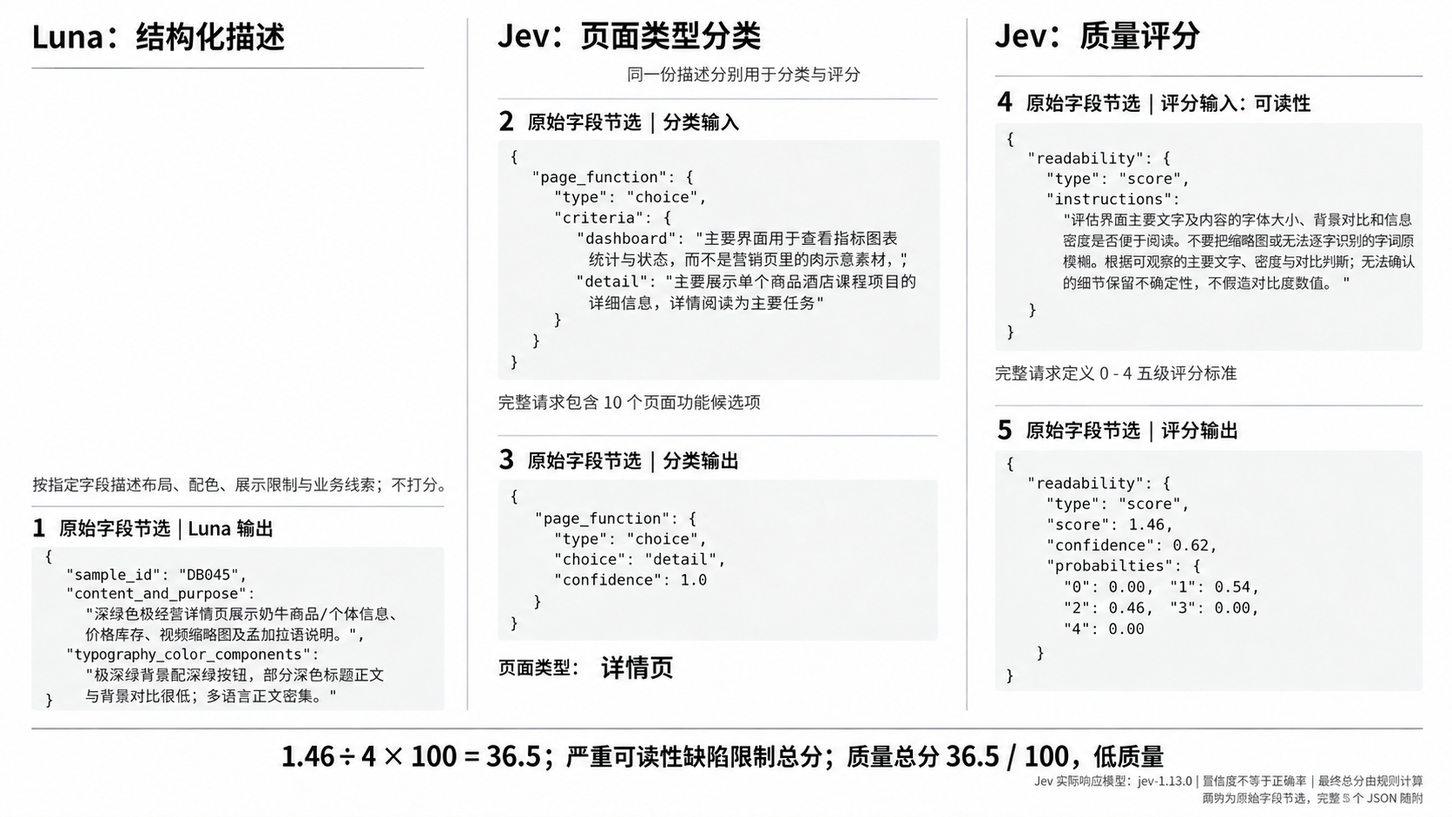
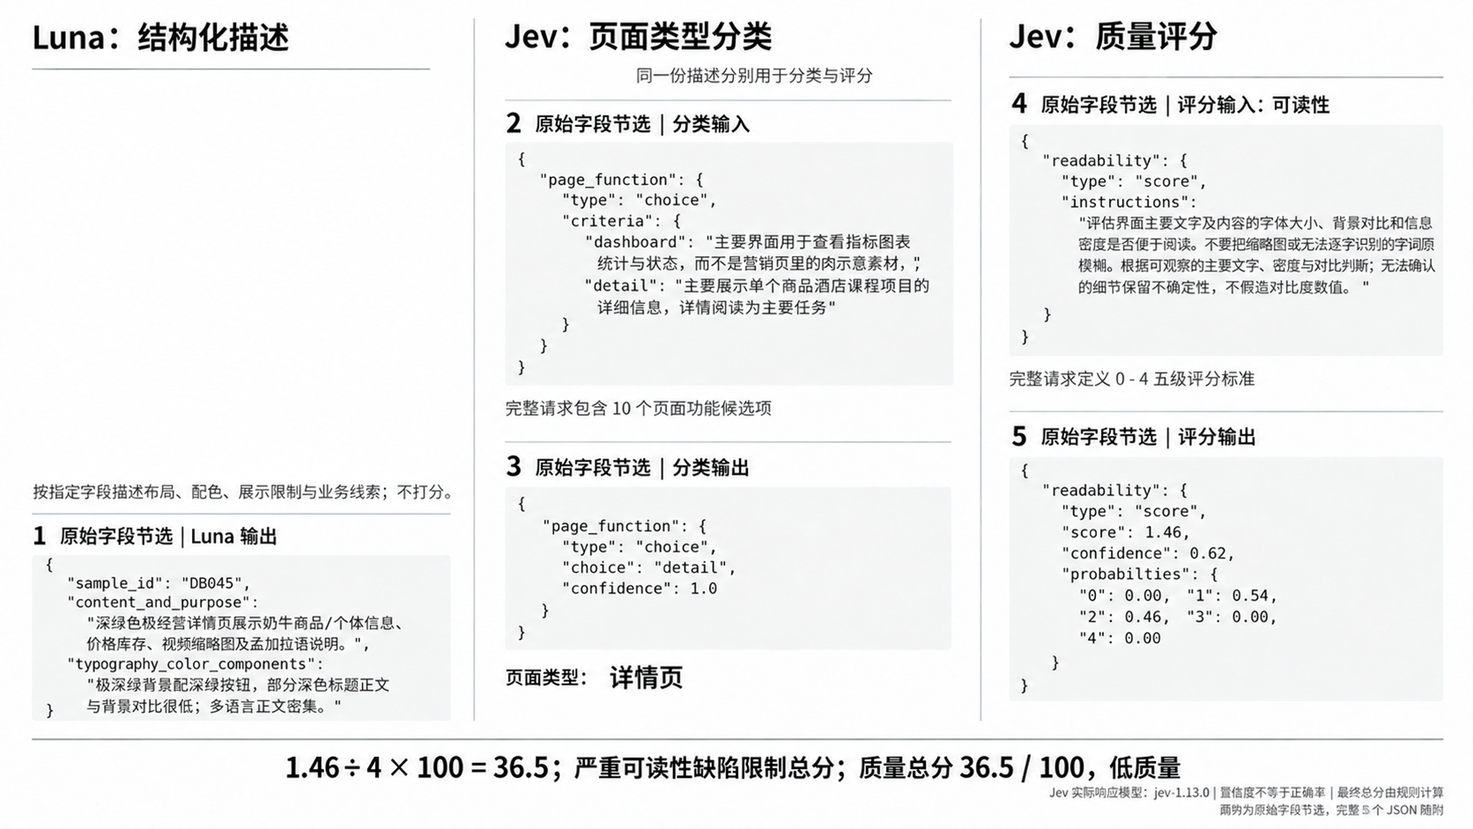
Refine research documentation and add workflow and results figures

diff --git a/README.md b/README.md
@@ -1,62 +1,154 @@
 # UI Quality Curator
 
-**面向前端生成的界面数据筛选与分类原型。** 使用 Luna 提取结构化视觉描述，使用 Jev 完成页面功能、业务领域分类和分项评分，再通过透明规则生成唯一的质量总分。
+**面向前端生成的界面数据质量评估与分类。**
 
-A research prototype for frontend screenshot curation: structured visual captions, page-function/domain classification, and rule-based quality screening with saved evidence.
+将界面截图转化为结构化视觉证据，通过显式定义的分类问题和评分标准，生成可追溯的页面标签、质量分数与筛选依据。
 
-![项目方法与真实 JSON 字段示例](docs/project-overview.png)
+*Evidence-based screenshot curation for frontend generation: structured visual captions, rubric-based evaluation, and reproducible screening decisions.*
 
-## 解决的问题
+[方法设计](#方法设计) · [实验结果](#实验结果) · [案例分析](#案例分析db045) · [离线复现](#离线复现) · [运行与数据说明](docs/reproducibility.md)
 
-网页素材中混有完整界面、孤立组件、作者宣传图和文字难以辨认的页面。搜索来源为 `dashboard` 不代表图片实际就是仪表盘；页面结构完整也不能抵消严重的可读性缺陷。
+## 研究问题
 
-本项目保留每张图片的描述、问题配置、模型响应、分项分数与决策原因，方便追溯和人工检查。目前是 **100 张样本的原型实验**，没有训练新模型，也没有建立人工金标准或验证下游生成效果。
+前端生成模型需要能够反映页面组织和设计质量的视觉数据。然而，网页设计素材的来源标签通常描述搜索主题，难以直接作为训练数据的质量标签：
 
-## 方法
+- **内容粒度不一致。** 完整页面、单个卡片、图表组件和作者宣传图可能出现在同一批素材中。
+- **功能与行业相互混杂。** 金融产品的营销页可以包含仪表盘示意图；页面服务的业务领域与页面承担的用户任务需要分别判断。
+- **完整度与设计质量并不等价。** 页面可以具有完整结构，同时存在低对比文字、混乱层级等明显缺陷。
 
-1. **Luna 视觉描述**：逐图查看，按内容、布局、层级、字体配色、展示限制、不确定项及分类证据等字段输出 JSON。本实验在交互式 Codex 会话中完成；仓库保存实际描述和复核记录，不提供独立可调用的 Luna API 服务。
-2. **Jev 分类与评分**：`choice` 选择页面功能和业务领域；`score` 按预设的 0–4 级标准输出五项设计评分。第二次请求评估页面结构类别与完整度。真实响应包含模型名、置信度及概率分布。
-3. **程序计算质量总分**：分项乘以 25 转成百分制，应用以下规则，输出三档标签并保留待复核原因。小数位与置信度都不等于经过校准的正确率。
+本项目研究如何把这些判断转化为有明确输入、评价标准和决策记录的筛选流程。当前完成了 **Landing-page 与 Dashboard 两组、共 100 张固定随机样本的原型实验**。
 
-### 质量规则
+## 方法设计
 
-五项加权分：布局与间距 25%、信息层级 20%、可读性 15%、视觉一致性 20%、数据可学习性 20%。页面结构完整度另外限制总分。
+流程将视觉观察、模型判断和最终筛选规则分别记录，便于定位一次筛选结果的来源。
+
+![方法流程：Luna 结构化描述，以及 Jev 分类和评分的五个真实 JSON 字段示例](docs/project-overview.png)
+
+*图 1｜以真实样本 DB045 展示 Luna 输出、Jev 分类输入与输出、Jev 评分输入与输出。图中为原始字段节选，完整字段记录见 [docs/db045](docs/db045/)。*
+
+### 1. 结构化视觉证据
+
+Luna 逐图查看素材，按照固定字段描述画面内容。描述阶段记录可见事实和不确定项，质量等级由后续流程产生。
+
+| 字段 | 记录内容 |
+|---|---|
+| `content_and_purpose` | 主体内容与用途线索 |
+| `layout_components` | 页面区域、组件及其排列关系 |
+| `hierarchy` | 内容主次与阅读顺序 |
+| `typography_color_components` | 字体、配色与组件样式 |
+| `presentation_limits` | 裁切、透视、遮挡及可辨认范围 |
+| `uncertainties` | 无法确认的信息 |
+| `function_evidence` / `domain_evidence` | 页面功能与业务领域的视觉证据 |
+
+`sample_id` 将描述与样本清单、原始图片哈希及模型响应对应起来。描述不使用采集标题或来源类别替代画面判断。
+
+### 2. 页面分类与质量评分
+
+Jev 接收结构化描述及问题配置，分别完成两类任务：
+
+| 任务 | 输入约束 | 输出 |
+|---|---|---|
+| **分类 `choice`** | 候选类别及每类的定义 | 类别、置信度、候选概率分布 |
+| **评分 `score`** | 评价维度及有序的 0–4 级标准 | 分项分数、置信度、等级概率分布 |
+
+分类使用两条独立轴：**页面功能**，如营销落地页、数据仪表盘、业务管理页、详情页；**业务领域**，如金融、教育、旅游、零售。页面来源仍保留为抽样信息。
+
+评分覆盖六个维度：
+
+| 维度 | 评价重点 | 在总分中的作用 |
+|---|---|---|
+| 布局与间距 | 对齐、分组、留白与视觉平衡 | 加权项，25% |
+| 信息层级 | 内容主次与阅读顺序 | 加权项，20% |
+| 可读性 | 主要文字的字号、对比与信息密度 | 加权项，15% |
+| 视觉一致性 | 字体、配色及组件语言的协调程度 | 加权项，20% |
+| 数据可学习性 | 从截图学习布局、组件及主要细节的充分程度 | 加权项，20% |
+| 页面结构完整度 | 完整页面、主视口、局部区块之间的结构差异 | 限制最终总分 |
+
+前五项与页面分类在第一阶段请求中评估；结构类别和完整度在第二阶段请求中评估。模型原始评分按 `score / 4 × 100` 转换为百分制，概率与置信度保留用于检查。
+
+### 3. 约束下的质量决策
+
+仅使用加权平均，可能使严重缺陷被其他高分项抵消。本项目保留五项加权结果作为中间量，再施加结构与缺陷限制，向使用者展示唯一的 **质量总分**：
 
 ```text
 质量总分 = min(五项加权分, 页面结构完整度, 结构上限, 严重设计缺陷上限)
-
-结构上限：孤立组件 25；作者宣传或非界面 0；其他 100
-严重设计缺陷：布局、层级、可读性、一致性任一 <50 时，总分不能高于该项分数
-
-高质量：总分 >=65
-中质量：50 <= 总分 <65
-低质量：总分 <50
 ```
 
-按未舍入分数分档，页面显示一位小数。完整规则见每个实验的 `rule_v5.json`。规则属于本次研究的启发式定义，尚未经人工校准。
+- **结构上限：**孤立组件最高 25 分；作者宣传或非界面素材为 0 分；其他结构上限为 100 分。
+- **严重设计缺陷上限：**布局、层级、可读性、一致性中任一项低于 50 时，总分不能高于该项分数；未触发时不额外限制。
+- **质量分档：**高质量 ≥65；中质量 ≥50 且 <65；低质量 <50。分档使用未舍入分数。
 
-## 已完成的实验
+人工复核提示集中于分数靠近 50/65 分界线，以及可能影响保留决定的结构歧义。功能或行业的低置信度继续保留在详情中，不单独触发复核提示。
 
-从两类各 10,000 张候选素材中分别固定随机抽取 50 张，两个样本集均包含 50 个不同作品。随机种子、抽样方法与原始图片哈希见各自的 `experiment.json` 和 `samples.csv`。
+完整参数与实现见 [评分规则](experiments/dashboard-random-50/rule_v5.json)、[总分计算](experiments/dashboard-random-50/run_structure_v5.py) 和 [复核策略](experiments/dashboard-random-50/review_policy_v5.py)。这些阈值是当前实验的启发式定义，后续需要人工标注校准。
 
-| 来源样本集 | 高质量 | 中质量 | 低质量 | 平均总分 |
-|---|---:|---:|---:|---:|
-| Landing-page，50 张 | 20 | 13 | 17 | 54.4 |
-| Dashboard，50 张 | 27 | 10 | 13 | 56.0 |
+## 实验结果
 
-这些数字是当前规则下的筛选分布，**不是准确率**。Dashboard 来源中实际分类为仪表盘的有 29 张、业务管理页 11 张、非界面 5 张，其他功能 5 张。
+从 Landing-page 和 Dashboard 两类各 10,000 张候选素材中分别随机抽取 50 张，每组均对应 50 个不同作品。仓库保留随机种子、抽样方法、来源作品链接和图片 SHA-256，以便追溯样本。
 
-### 真实案例 DB045
+两组实验使用相同的最终评分规则：
 
-Luna 描述指出深绿背景上的暗色文字对比不足。Jev 返回可读性 `1.46/4`，换算为 `36.5/100`；视觉一致性为 `44.5`。原五项加权分为 `55.6375`，加入严重缺陷限制后，质量总分为 **36.5，低质量**。
+| 样本来源 | 样本量 | 高质量 | 中质量 | 低质量 | 平均总分 |
+|---|---:|---:|---:|---:|---:|
+| Landing-page | 50 | 20 | 13 | 17 | 54.4 |
+| Dashboard | 50 | 27 | 10 | 13 | 56.0 |
 
-分类结果为 `detail`（详情页）和 `other`（其他领域）。没有将“畜牧交易”的描述线索冒充成模型已输出的专门行业类别。
+**表中数字表示当前规则下的筛选分布。** 当前尚未建立人工金标准，因此不将该分布解释为分类准确率、质量识别准确率或下游性能提升。
 
-[五个实际 JSON 字段记录](docs/db045/) 包括 Luna 输出、Jev 分类输入/输出和可读性评分输入/输出。它们是原记录的字段提取；同一次实际请求还包含其他问题。页面结构完整度来自另一次请求。保存的 `response` 是解析后的 API 响应，不是 HTTP 抓包。
+来源与实际内容的差异也体现在分类结果中：Dashboard 来源的 50 张素材里，Jev 判断 29 张为数据仪表盘、11 张为业务管理页、5 张为非界面素材，其余 5 张属于其他功能。
 
-## 快速开始：离线复现，无需 API 密钥
+### 结果检查界面
 
-需要 Python 3.10+。核心脚本仅使用标准库。
+![Landing-page 实验的本地结果检查界面：质量分档、功能与领域筛选、六项评分和复核提示](docs/results-preview.png)
+
+*图 2｜Landing-page 样本的本地检查界面。支持按质量、页面功能及业务领域筛选，按总分或分项排序，展开视觉依据与置信度，并下载当前筛选结果。截图中的原图预览来自本地素材，公开仓库的报告在缺少原图时显示来源作品链接。*
+
+| 实验记录 | 描述 | 问题配置 | 模型响应 | 导出结果 |
+|---|---|---|---|---|
+| Landing-page | [Caption](experiments/landing-page-random-50/captions_structured_v5.json) | [分类与设计](experiments/landing-page-random-50/questions_v4.json) / [结构](experiments/landing-page-random-50/questions_v5.json) | [第一阶段](experiments/landing-page-random-50/jev_results_v4.json) / [最终记录](experiments/landing-page-random-50/jev_results_v5.json) | [CSV](experiments/landing-page-random-50/classification_scores_v5.csv) |
+| Dashboard | [Caption](experiments/dashboard-random-50/captions_structured_v5.json) | [分类与设计](experiments/dashboard-random-50/questions_v4.json) / [结构](experiments/dashboard-random-50/questions_v5.json) | [第一阶段](experiments/dashboard-random-50/jev_results_v4.json) / [最终记录](experiments/dashboard-random-50/jev_results_v5.json) | [CSV](experiments/dashboard-random-50/classification_scores_v5.csv) |
+
+## 案例分析：DB045
+
+DB045 是一张结构完整的畜牧商品详情页。Luna 的实际描述记录了一个重要问题：
+
+> 极深绿背景配亮绿按钮，部分深色标题正文与背景对比很低；多语言正文密集。
+
+Jev 根据预设的可读性等级标准，返回如下字段：
+
+```json
+{
+  "type": "score",
+  "score": 1.46,
+  "confidence": 0.62,
+  "probabilities": {
+    "0": 0.00,
+    "1": 0.54,
+    "2": 0.46,
+    "3": 0.00,
+    "4": 0.00
+  }
+}
+```
+
+该分数对应 `1 × 0.54 + 2 × 0.46 = 1.46`，转换后可读性为 **36.5/100**。完整输入问题与响应字段见 [真实案例记录](docs/db045/)。
+
+| 判断依据 | 实际结果 |
+|---|---:|
+| 页面结构完整度 | 89.25 |
+| 数据可学习性 | 80.00 |
+| 可读性 | 36.50 |
+| 视觉一致性 | 44.50 |
+| 仅五项加权时的中间结果 | 55.6375 |
+| 施加严重缺陷限制后的质量总分 | **36.50，低质量** |
+
+这个失败样本暴露了平均分对严重缺陷的补偿效应，并促成了当前的缺陷限制规则。同样的规则随后应用到两批全部 100 张样本。
+
+页面功能的实际输出为 `detail`（详情页），业务领域输出为 `other`（其他领域）。描述中的畜牧交易线索进一步反映出当前行业候选集合的覆盖边界。
+
+## 离线复现
+
+需要 **Python 3.10+**，核心脚本仅依赖标准库。使用仓库中的已保存响应，即可重新计算全部分数、标签与复核提示，无需 API 密钥。
 
 ```bash
 git clone https://github.com/starry913/ui-quality-curator.git
@@ -65,50 +157,25 @@ python tools/replay.py
 python -m unittest discover -s tests -v
 ```
 
-`replay.py` 读取已保存的真实模型响应，重算 100 张样本的分数和标签，并生成两份静态报告。**不会调用模型或读取 API 密钥。**
+运行后打开根目录的 `index.html`，或直接打开两组实验目录下的 `review.html`。离线重放不会调用模型，也不会读取 API 密钥。
 
-- 打开根目录生成的 `index.html` 进入实验导航。
-- 也可直接打开 `experiments/landing-page-random-50/review.html` 或 `experiments/dashboard-random-50/review.html`。
-- 报告支持按三档质量、页面功能、业务领域筛选、按分数排序和下载当前 CSV。
-- 原图未随代码发布；缺少预览时显示公开来源作品链接。将自己的预览保存为 `previews/<sample_id>.jpg` 后重新生成报告即可显示。
+验证覆盖 100 张样本的分数换算与总分计算、50/65 分档边界、严重缺陷限制，以及缺少原图时报告与导出的完整性。GitHub Actions 在提交时执行相同检查，并验证报告脚本语法。
 
-## 使用自己的描述进行新推理
+## 可复现记录与运行边界
 
-这是保留原始实验脚本的研究原型，两个实验目录目前都严格校验 **50 个样本编号**。请先复制一个实验目录作为新实验，准备对应的 `samples.csv`、`experiment.json` 和 `captions_structured_v4.json`；确保编号匹配，并移除复制来的旧响应文件，以免断点跳过旧记录。请勿覆盖已提交的基准记录。
+仓库包含代码、结构化描述、问题配置、解析后的实际 API 响应、导出结果和采样元数据。Luna 描述在交互式 Codex 会话中生成，实际查看范围及额外原图复核记录见各组的 `caption_provenance_v4.json`；当前仓库不提供独立的 Luna 推理服务。
 
-1. 按 `captions_structured_v5.json` 的字段组织自己的视觉描述。描述只能记录可见证据，不能从来源类别猜测页面类型。
-2. 在终端设置 `TYPESAFE_API_KEY`，或将 `.env.example` 复制为本地 `.env` 并填写自己的密钥。`.env` 已忽略。
-3. 在新实验目录运行：
+Jev 历史响应模型为 `jev-1.13.0`，运行器请求使用 `jev-latest`。**离线重放用于验证保存记录与决策规则；重新调用模型时，输出可能随模型版本或推理过程变化。**
 
-```bash
-python run_classification_v4.py
-python run_structure_v5.py
-python build_report_v5.py
-```
+新数据接入、API 配置、检查点行为与脚本版本对应关系，见 [运行与复现说明](docs/reproducibility.md)。
 
-前两个步骤会调用 `https://api.typesafe.ai/v1/systemone`，可能产生 API 费用；报告生成步骤不调用 API。请求使用 `jev-latest`，实际响应模型记录在结果中，历史样本为 `jev-1.13.0`。模型版本变化可能影响复现。运行器保存检查点，并在输入变化时拒绝混用旧结果。
+## 局限与后续工作
 
-新实验初始化时，至少清除 `jev_results_v4.json`、`jev_results_v5.json` 及由旧记录生成的导出和报告；保留或重新生成问题配置。结构阶段还保留了 LP006、LP030 的历史人工观察补充，新实验请使用不同编号，或移除这两条基准专用补充。
+- **质量标准需要校准。** 当前权重、阈值与分数上限来自原型迭代，下一步需建立人工标注集，评估分类与评分的一致性。
+- **文本描述可能损失图像细节。** Caption 中的遗漏或错误会传递到后续判断，需要结合原图检查和更系统的描述一致性验证。
+- **候选类别影响分类覆盖。** 当前行业集合不包含所有领域，需要在保留未知和其他类别的同时，评估如何扩展分类体系。
+- **下游收益仍待验证。** 计划比较不同筛选规则、描述方式与数据组成，并评估筛选前后数据对前端生成质量的影响。
 
-## 目录
+## 数据说明
 
-```text
-experiments/
-  landing-page-random-50/   # 50 张描述、响应、评分规则和报告脚本
-  dashboard-random-50/      # 另一组 50 张，使用相同最终评分规则
-docs/
-  project-overview.png      # 5 个 JSON 字段节选的方法图，预留插图位置
-  db045/                    # 一个真实样本的输入问题与原始输出字段
-tools/replay.py              # 离线重算并生成报告导航
-tests/test_replay.py         # 分数、分档、缺陷上限、HTML 和来源追溯检查
-```
-
-`v3`、`v4`、`v5` 文件名保留了迭代来源：`run_scores_v3.py` 提供五项评分标准；`run_classification_v4.py` 负责分类与第一阶段评分；`run_structure_v5.py` 和 `build_report_v5.py` 提供当前总分规则与报告。`build_scores_report_v3.py` 在当前流程中仅作为静态样式模板读取。
-
-## 数据与局限
-
-仓库发布代码、描述与评分证据，不发布原始采集图库、API 密钥、运行数据库、用户目录路径或无关海报项目。`samples.csv` 保留公开作品链接及哈希用于追溯；原作品权利属于其作者，本仓库不授予第三方图片的使用许可。
-
-评分依赖描述的准确性，可能丢失图像细节；分类候选集合也存在覆盖不足，例如当前没有单独的畜牧业类别。待复核标记只用于优先检查分界样本或可能影响保留决定的结构歧义，不保证捕获全部错误。
-
-下一步是建立人工标注集、评估评分一致性，再比较筛选数据对下游前端生成质量的影响。
+完整原始图库与 API 密钥不在仓库中。README 保留方法示意图及少量界面展示截图；`samples.csv` 保留公开作品链接与原图哈希，供来源追溯。原设计作品权利归其作者，本仓库不授予第三方素材的使用许可。

diff --git a/docs/reproducibility.md b/docs/reproducibility.md
@@ -1,0 +1,92 @@
+# 运行与复现说明
+
+## 两种运行方式
+
+| 方式 | 输入 | 是否需要密钥 | 是否调用模型 |
+|---|---|---|---|
+| 离线重放 | 仓库中的描述与已保存响应 | 否 | 否 |
+| 新数据推理 | 自行准备的 50 条视觉描述与样本清单 | Jev 密钥 | 是 |
+
+## 离线重放
+
+在仓库根目录运行：
+
+```bash
+python tools/replay.py
+python -m unittest discover -s tests -v
+```
+
+`replay.py` 分别运行两个实验的报告生成器，使用保存的分项响应重算最终结果，并生成 `index.html` 导航。需要 Python 3.10+，无需安装第三方 Python 包。
+
+报告支持三档质量、页面功能、业务领域筛选，按总分或分项排序，并导出当前 CSV。报告呈现一个质量总分，同时保留六个维度的分项分数及判断依据。
+
+没有原图预览时，报告会显示 `samples.csv` 中的公开作品来源链接。若有相应图片，可保存为实验目录下的 `previews/<sample_id>.jpg` 后重新生成报告。`images/` 和 `previews/` 均已加入忽略规则。
+
+## 为新实验准备输入
+
+当前保留的是固定批量研究原型，运行器严格要求 **50 个样本编号**，并非任意规模的数据服务。
+
+1. 在 `experiments/` 下复制一个实验目录，使用新的目录名与样本编号，保留原基准记录。
+2. 准备 `samples.csv`、`experiment.json` 及 `captions_structured_v4.json`。CSV 与 Caption 的 50 个 `sample_id` 应一一对应。
+3. 字段格式可参考已保存的 `captions_structured_v5.json`。至少包括 `sample_id`、`content_and_purpose`、`layout_components`、`hierarchy`、`typography_color_components`、`presentation_limits`、`uncertainties`、`function_evidence` 和 `domain_evidence`。
+4. 新实验初始化时，移除复制来的 `jev_results_v4.json`、`jev_results_v5.json` 及旧导出与报告，避免续跑逻辑跳过已有编号。
+
+视觉描述应基于实际查看的图片，记录不确定性，避免根据来源标题或搜索类别推断功能。已有 Luna 描述在交互式 Codex 会话中生成；本仓库没有封装一个可独立调用的 Luna API 服务。
+
+结构阶段保留了 LP006、LP030 的历史人工观察补充。新实验请采用不同编号，或在 `run_structure_v5.py` 中移除这两条基准专用补充。
+
+## 配置并调用 Jev
+
+可以设置环境变量 `TYPESAFE_API_KEY`，或将根目录 `.env.example` 复制为本地 `.env` 并填写自己的密钥。运行器优先读取环境变量，随后读取本地配置；`.env` 不参与提交。
+
+在新实验目录中依次运行：
+
+```bash
+python run_classification_v4.py
+python run_structure_v5.py
+python build_report_v5.py
+```
+
+- 第一阶段调用 `https://api.typesafe.ai/v1/systemone`，提交视觉描述、页面功能/业务领域分类问题与五项评分问题。
+- 第二阶段评估页面结构类别与完整度，随后根据保存的分项结果计算质量总分。
+- 报告生成步骤只重放保存结果，不调用 API。
+
+前两个步骤可能产生 API 费用。请求模型参数为 `jev-latest`，实际响应模型名称保存在结果中；历史响应为 `jev-1.13.0`。重新调用服务不能保证与已保存响应逐字一致。
+
+运行器逐条保存检查点，完成的编号会在续跑时跳过。Caption 文件摘要变化时会拒绝混用旧检查点；更换输入应建立新实验或明确管理对应结果文件。
+
+## 记录对应关系
+
+| 文件 | 含义 |
+|---|---|
+| `samples.csv` | 样本编号、公开作品链接、原始图片哈希与相对路径 |
+| `experiment.json` | 来源类别、抽样单位、随机种子与抽样方法 |
+| `captions_structured_v4.json` | 第一阶段输入描述 |
+| `captions_structured_v5.json` | 结构阶段使用的描述，含必要的数组规范化或基准观察补充 |
+| `caption_provenance_v4.json` | 图像查看与原图复核记录 |
+| `questions_v4.json` / `questions_v5.json` | 两阶段的实际问题配置 |
+| `jev_results_v4.json` | 第一阶段的解析后 API 响应及中间结果 |
+| `jev_results_v5.json` | 保留两阶段响应的最终评分与决策记录 |
+| `rule_v5.json` | 当前总分与质量分档规则 |
+| `review_policy_v5.json` | 人工复核提示策略 |
+| `classification_scores_v5.csv` | 方便浏览和分析的最终导出 |
+
+`docs/db045/` 的五个 JSON 是从实际记录中提取的对应字段，并非五次单独的 API 调用。页面功能和可读性问题与其他问题共享一次请求；结构完整度来自第二阶段请求。仓库保存的是解析后的响应对象，没有声称保存了原始 HTTP 抓包。
+
+## 脚本版本与目录
+
+```text
+experiments/
+  landing-page-random-50/
+  dashboard-random-50/
+docs/
+  project-overview.png     # 方法示意图
+  results-preview.png      # 本地检查界面截图
+  db045/                   # 真实输入问题与原始输出字段
+tools/replay.py             # 两组实验的离线复现与报告导航
+tests/test_replay.py        # 分数、分档边界、缺陷上限与报告完整性检查
+```
+
+保留 `v3`、`v4`、`v5` 名称用于对应原实验迭代：`run_scores_v3.py` 定义五项评分标准；`run_classification_v4.py` 执行第一阶段分类与评分；`run_structure_v5.py` 与 `build_report_v5.py` 实现当前总分规则和报告。
+
+当前报告生成器只读取 `build_scores_report_v3.py` 内的静态样式模板，不执行该旧报告流程。
